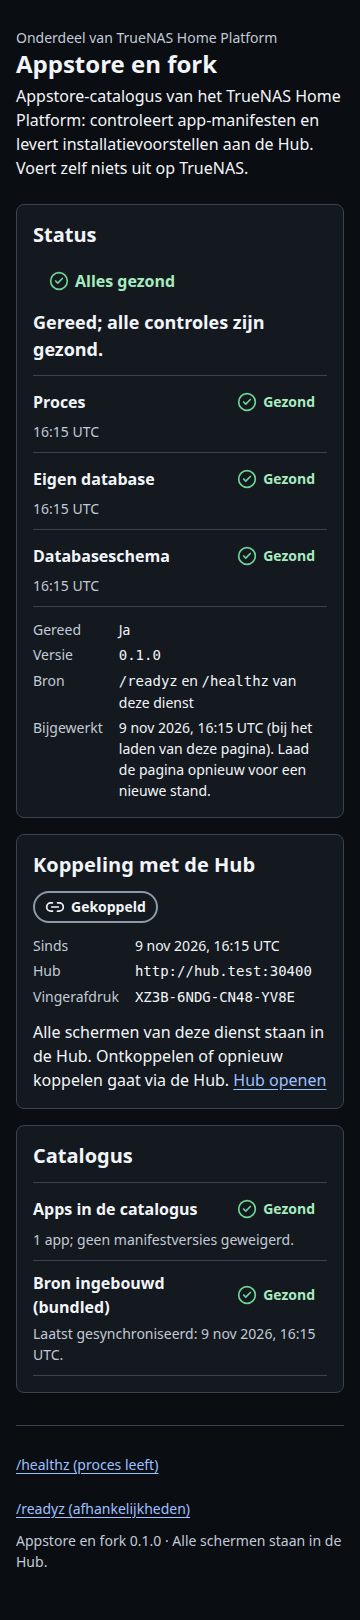
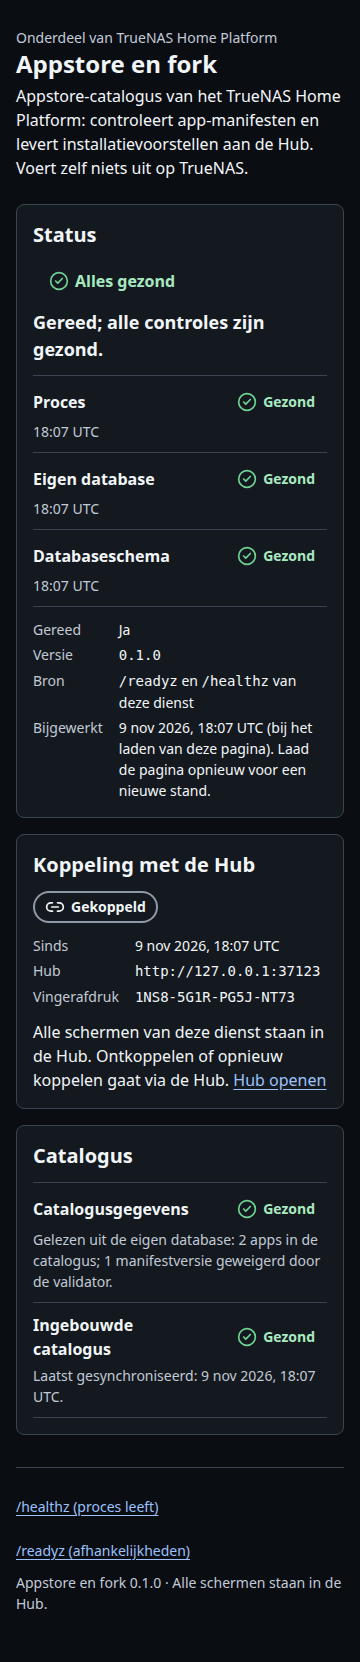
Schermafdrukken statuspagina: 18 toestanden × 320/360/390/768/1440 × licht/donker uit de draaiende dienst
Gemaakt met tests/ui/review_live.py (serve + worker + Hub-simulator, Chromium) na de reparaties van de
ontwerpreview; verkleind met pngquant. README beschrijft per toestand hoe hij bereikt is. Sim-getest.

diff --git a/docs/screenshots/peil/statuspagina/README.md b/docs/screenshots/peil/statuspagina/README.md
@@ -1,21 +1,37 @@
 # Schermafdrukken — statuspagina in Peil 1.1.0
 
-Gemaakt met `make schermafdrukken` (Playwright 1.65, Chromium, `tests/ui/statuspagina.spec.ts`) uit de **echte** app
-(FastAPI + PostgreSQL) met de **Hub-simulator** (`apps/api/tests/fakehub.py`). Validatie: **Sim-getest** — adressen als
-`http://hub.test:30400`, vingerafdrukken, trace-ID's en tijden komen uit de simulatie, niet van een echte Hub of NAS.
+Gemaakt tijdens de ontwerpreview ([`docs/ontwerp/PEIL_REVIEW.md`](../../../ontwerp/PEIL_REVIEW.md)) met
+`tests/ui/review_live.py`: de **draaiende** dienst (`python -m appstore serve` + `worker`, eigen `/appdata`, PostgreSQL
+16) en de **Hub-simulator** over echte HTTP (`apps/api/tests/fakehub.py`). Chromium (Playwright 1.65) haalt de pagina
+zelf op of verstuurt het koppelformulier zelf. Validatie: **Sim-getest** — adressen (`http://127.0.0.1:<poort>`),
+vingerafdrukken, trace-ID's en tijden komen uit de simulatie, niet van een echte Hub of NAS. De bestanden zijn
+verkleind met `pngquant` (alleen kleurenpalet; de metingen gaan over de pagina zelf, niet over deze afdrukken).
 
-Bestandsnaam: `<toestand>-<licht|donker>-<360|768|1440>.png` (volledige pagina).
+Bestandsnaam: `<toestand>-<licht|donker>-<320|360|390|768|1440>.png` (volledige pagina).
 
-| Toestand | Wat je ziet |
-|---|---|
-| `niet-gekoppeld` | Eerste start: **Niet gereed** (deels onbekend, wacht op koppeling), koppelformulier met Hub-adres, koppelcode en vingerafdruk. |
-| `koppelen-mislukt` | Antwoord op een koppelpoging die de Hub weigerde: melding met code `hub_weigerde` en selecteerbare trace-ID, veldfout bij de koppelcode; ingevulde waarden worden niet teruggetoond. |
-| `gekoppeld` | Gereed en bevestigd: **Alles gezond**, neutrale pil **Gekoppeld**, Hub-adres en vingerafdruk; geen formulier, geen ontkoppelen. |
-| `ingetrokken` | De Hub heeft de koppeling ingetrokken: **Niet gereed**, pil **Ingetrokken**, "opnieuw koppelen gaat via de Hub". |
-| `niet-gereed` | Gekoppeld, maar de eigen database is weg: **Storing** — "Niet gereed — de database is niet bereikbaar"; aantallen onbekend in plaats van 0. |
+| Toestand | Hoe bereikt | Wat je ziet |
+|---|---|---|
+| `niet-gekoppeld` | eerste start zonder `HUB_URL` | **Niet gereed** (deels onbekend, wacht op koppeling), koppelformulier |
+| `koppelen-invoerfouten` | formulier met een adres met pad, code "123", vingerafdruk "ABCD" | HTTP 422, drie veldfouten, skiplink en melding naar het eerste foute veld, niets naar de Hub |
+| `vingerafdruk-onjuist` | geldige code, vingerafdruk van een andere Hub | HTTP 400, `hub_vingerafdruk_onjuist`, veldfout bij de vingerafdruk |
+| `hub-onbereikbaar` | adres waar niets luistert | HTTP 502, `hub_onbereikbaar`, veldfout bij het adres |
+| `koppelen-mislukt` | onbekende koppelcode | HTTP 400, `hub_weigerde`, veldfout bij de koppelcode |
+| `laatste-poging-mislukt` | pagina opnieuw laden na de mislukte poging | opgeslagen fout met tijdstip, vervolgstap en trace-ID van dit paginaverzoek |
+| `te-veel-pogingen` | zesde poging binnen 15 minuten | HTTP 429 met `Retry-After: 900` |
+| `sessie-verlopen` | formulier zonder cookie verstuurd (langer dan een uur open) | HTTP 403 "Het formulier is verlopen" |
+| `al-gekoppeld` | tab 1 staat open, in tab 2 wordt gekoppeld, daarna verstuurt tab 1 | HTTP 409 "Koppelen kan hier niet meer", geen formulier meer |
+| `gekoppeld-niet-bevestigd` | gekoppeld terwijl de Hub `services/self` nog niet bevestigt | **Niet gereed**, controle "Niet bevestigd" |
+| `gekoppeld-melding` | `/?melding=gekoppeld` na bevestiging | info-melding "Gekoppeld met de Hub", **Alles gezond** |
+| `gekoppeld` | gekoppeld en bevestigd | **Alles gezond**, neutrale pil **Gekoppeld**, geen formulier |
+| `catalogus-bronnen` | drie bronnen via de catalogus-API: onbereikbaar, uitgezet, nog nooit | **Beperkt** (gereed; één bron mislukt), gate "Uit", Onbekend "Nog nooit gesynchroniseerd" |
+| `niet-gereed` | `serve` herstart met een onbereikbare database | **Storing** — "Niet gereed — de database is niet bereikbaar"; aantallen onbekend, niet 0 |
+| `ingetrokken` | de Hub trekt de koppeling in; de worker krijgt 401 op `services/self` | **Niet gereed**, pil **Ingetrokken**, "De dienst weigert elke opdracht" |
+| `koppelstatus-onleesbaar` | foutinjectie: `hub-link.json` kapot | **Storing**, melding `koppelstatus_onleesbaar` met herstel (koppeltoken) |
+| `koppelen-loopt` | tweede installatie met `HUB_URL` + koppeltoken terwijl de Hub onbereikbaar is; lege ingebouwde catalogus | info-melding "Koppelen loopt" met de laatste fout, gate "Nog leeg" |
+| `ontkoppeld` | de Hub ontkoppelt via `POST /connector/v1/hub-link/unlink` | **Niet gereed**, pil **Ontkoppeld**, "opnieuw koppelen gaat via de Hub" |
 
-De Playwright-test draait daarnaast ook `koppelen-invoerfouten`, `laatste-poging-mislukt`, `koppelen-loopt`,
-`gekoppeld-melding`, `ontkoppeld` en `koppelstatus-onleesbaar`, en alle toestanden ook op 320, 390 en 1024 px
-(axe = 0, geen overloop). Geen pixel-baselines (ONTWERPTAAL §12).
+Elke toestand is gemeten op 320, 360, 390, 768, 1024 en 1440 px in licht en donker (axe-core, contrast, randen,
+focusring, overloop, doelen, statusvorm, woordenlijst); afdrukken alleen op 320/360/390/768/1440. Geen
+pixel-baselines (ONTWERPTAAL §12).
 
-NIET GEVALIDEERD: echte schermlezer, echte Android-telefoon in fel licht, echte Hub en NAS.
+NIET GEVALIDEERD: echte schermlezer (NVDA/TalkBack), echte Android-telefoon in fel licht, echte Hub en NAS.
